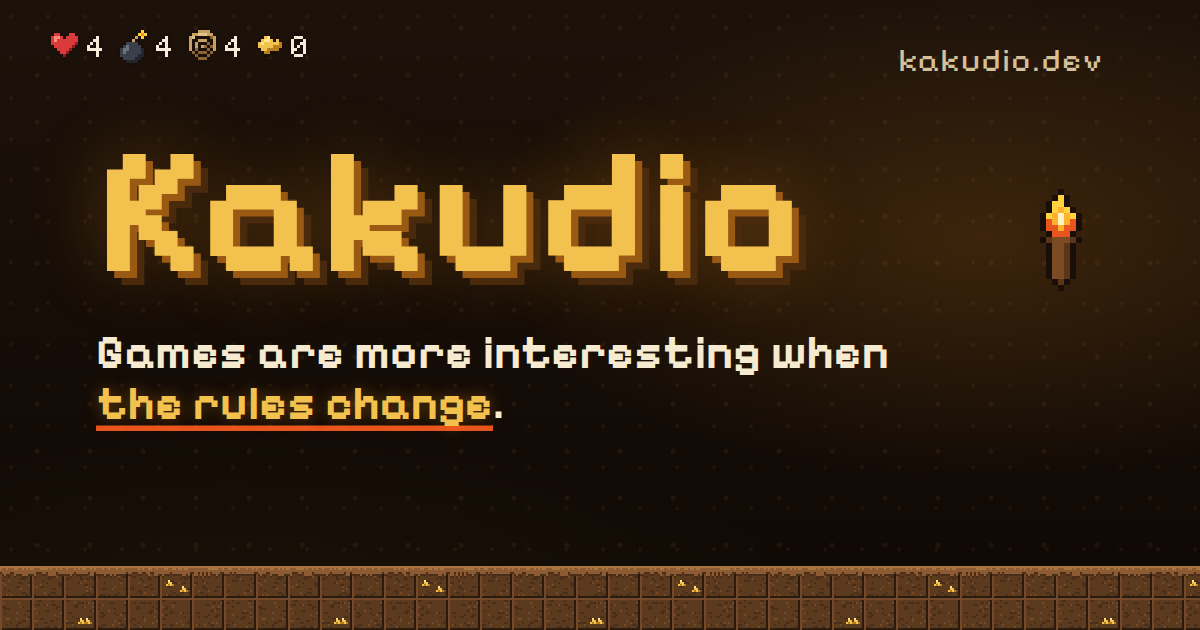
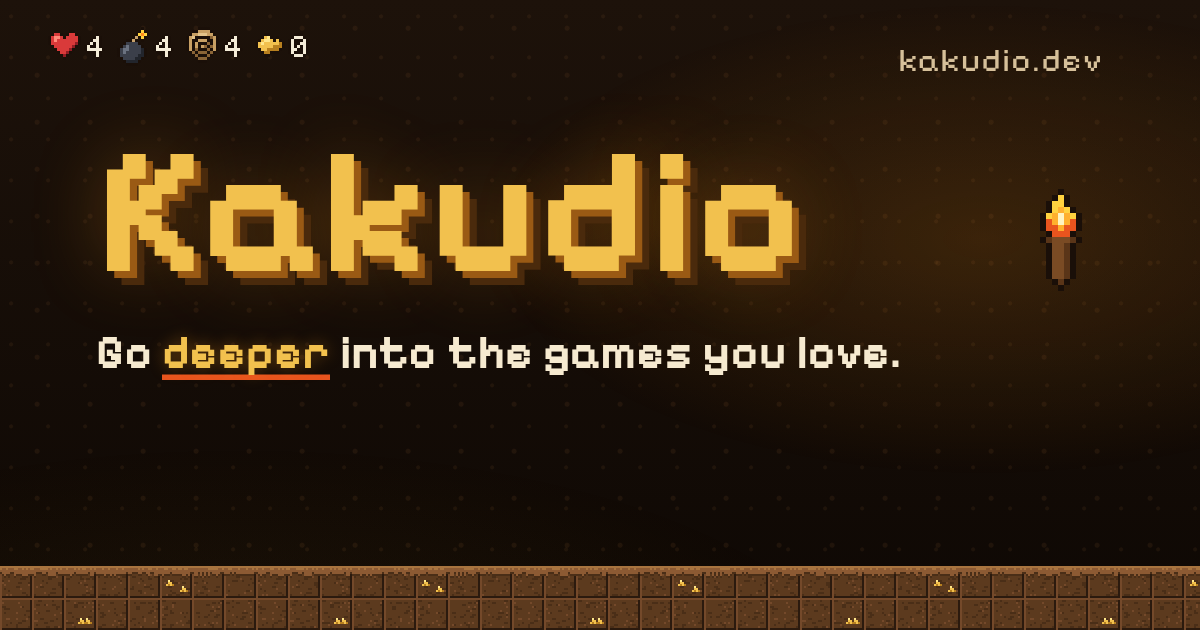
Retire old slogans from metadata, 404 and social preview; re-take the preview (subtask:4)
Retires the old slogans from the page title, meta description, Open Graph/Twitter metadata and alt text, drops the em dash from the 404 title, and re-takes the social preview with "Go deeper into the games you love." in the Spelunky theme.

Local-Subtask: subtask:4 e651b97458500cb8ef068ca393ba7798f209aa0c

Changed region(s): [[0.0617, 0.5429, 0.74, 0.6937], [0.74, 0.0905, 0.925, 0.1206]]

diff --git a/index.html b/index.html
@@ -3,26 +3,26 @@
 <head>
   <meta charset="utf-8">
   <meta name="viewport" content="width=device-width, initial-scale=1">
-  <title>Kakudio — Dig deeper. Play harder. One more run.</title>
-  <meta name="description" content="Kakudio is where I mod the games I love, digging into their systems and building on what's already fun. Shell Game, a key item randomizer for Spelunky 2, is in beta and looking for testers.">
+  <title>Kakudio · Go deeper into the games you love.</title>
+  <meta name="description" content="Kakudio is where I mod the games I love. Shell Game, a key item randomizer for Spelunky 2, moves the Ankh, the Crown, Excalibur and the rest to new places every seed, so the route you know is gone. It's in beta and I'm looking for testers.">
   <link rel="canonical" href="https://kakudio.dev/">
   <meta name="theme-color" content="#150d07">
   <meta name="color-scheme" content="dark">
 
   <meta property="og:type" content="website">
   <meta property="og:site_name" content="Kakudio">
-  <meta property="og:title" content="Kakudio — Dig deeper. Play harder. One more run.">
-  <meta property="og:description" content="I mod the games I love, digging into their systems and building on what's already fun. Shell Game, a key item randomizer for Spelunky 2, is in beta and looking for testers.">
+  <meta property="og:title" content="Kakudio · Go deeper into the games you love.">
+  <meta property="og:description" content="I mod the games I love. Shell Game, a key item randomizer for Spelunky 2, moves the Ankh, the Crown, Excalibur and the rest to new places every seed, so the route you know is gone. It's in beta and I'm looking for testers.">
   <meta property="og:url" content="https://kakudio.dev/">
   <meta property="og:image" content="https://kakudio.dev/assets/img/social-preview.png">
   <meta property="og:image:width" content="1200">
   <meta property="og:image:height" content="630">
-  <meta property="og:image:alt" content="The Kakudio wordmark in gold pixel lettering in a torch-lit cave, with the line: Games are more interesting when the rules change.">
+  <meta property="og:image:alt" content="The Kakudio wordmark in gold pixel lettering in a torch-lit cave, with the line: Go deeper into the games you love.">
   <meta name="twitter:card" content="summary_large_image">
-  <meta name="twitter:title" content="Kakudio — Dig deeper. Play harder. One more run.">
-  <meta name="twitter:description" content="I mod the games I love, digging into their systems and building on what's already fun. Shell Game, a key item randomizer for Spelunky 2, is in beta and looking for testers.">
+  <meta name="twitter:title" content="Kakudio · Go deeper into the games you love.">
+  <meta name="twitter:description" content="I mod the games I love. Shell Game, a key item randomizer for Spelunky 2, moves the Ankh, the Crown, Excalibur and the rest to new places every seed, so the route you know is gone. It's in beta and I'm looking for testers.">
   <meta name="twitter:image" content="https://kakudio.dev/assets/img/social-preview.png">
-  <meta name="twitter:image:alt" content="The Kakudio wordmark in gold pixel lettering in a torch-lit cave, with the line: Games are more interesting when the rules change.">
+  <meta name="twitter:image:alt" content="The Kakudio wordmark in gold pixel lettering in a torch-lit cave, with the line: Go deeper into the games you love.">
 
   <link rel="icon" href="/assets/img/favicon.svg" type="image/svg+xml">
   <link rel="icon" href="/assets/img/favicon-32.png" type="image/png" sizes="32x32">

diff --git a/404.html b/404.html
@@ -3,7 +3,7 @@
 <head>
   <meta charset="utf-8">
   <meta name="viewport" content="width=device-width, initial-scale=1">
-  <title>Page not found — Kakudio</title>
+  <title>Page not found · Kakudio</title>
   <meta name="description" content="This page isn't here. Head back to kakudio.dev.">
   <meta name="robots" content="noindex">
   <meta name="theme-color" content="#150d07">

diff --git a/tools/social-preview.html b/tools/social-preview.html
@@ -19,7 +19,7 @@
     <div class="wrap">
       <p class="url">kakudio.dev</p>
       <h1 class="wordmark">Kakudio</h1>
-      <p class="line">Games are more interesting when <span class="shuffled">the rules change</span>.</p>
+      <p class="line">Go <span class="shuffled">deeper</span> into the games you love.</p>
     </div>
     <div class="ground"></div>
   </header>
